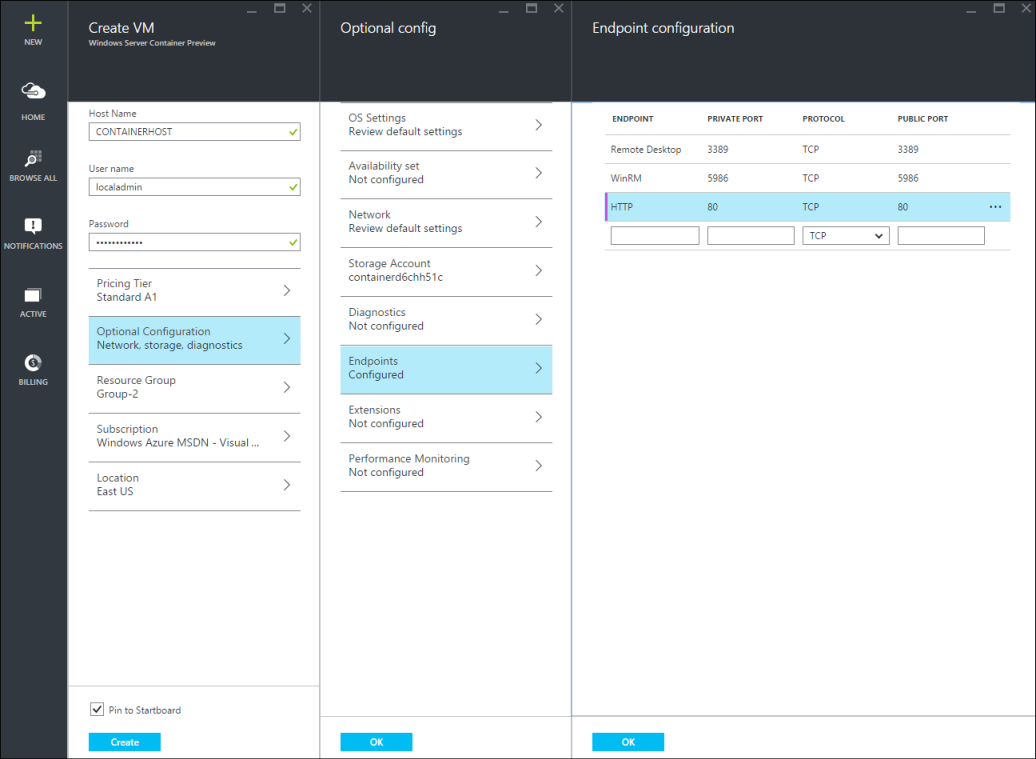
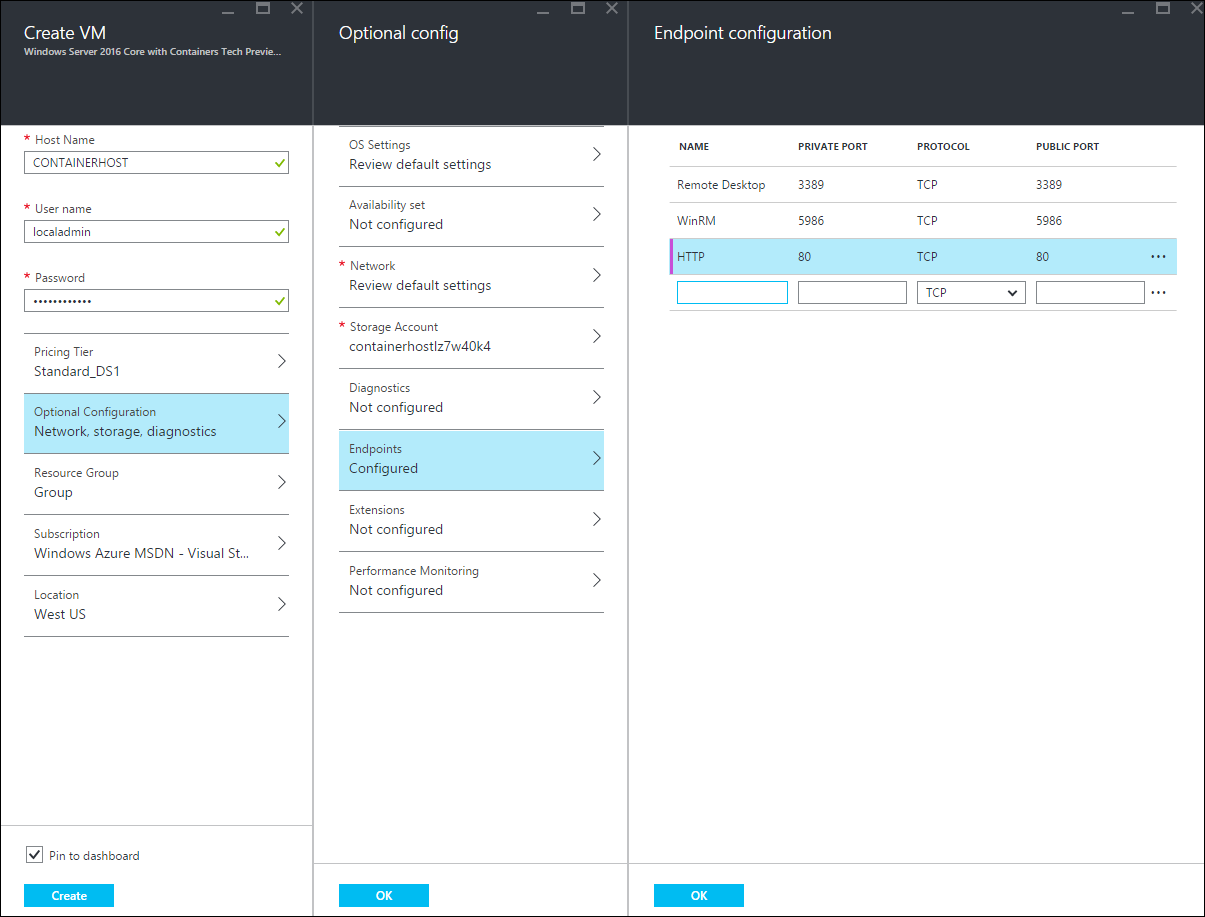
Azure Doc Update

diff --git a/virtualization/windowscontainers/quick_start/azure_setup.md b/virtualization/windowscontainers/quick_start/azure_setup.md
@@ -2,6 +2,8 @@
 
 Before creating and managing Windows Server Containers in Azure you will need to deploy a Windows Server 2016 Technical Preview image which has been pre-configured with the Windows Server Containers feature. This guide will walk you through this process.
 
+> Microsoft Azure does not support Hyper-V containers. To complete Hyper-V Container exercises, you need an on-prem container host.
+
 ## Start Using Azure Portal
 If you have an Azure account, skip straight to [Create a Container Host VM](#CreateacontainerhostVM).
 
@@ -11,13 +13,13 @@ If you have an Azure account, skip straight to [Create a Container Host VM](#Cre
 
 ## Create a Container Host VM
 
-Click on the following link to start the VM creation process – [New Windows Server Container Host in Azure]( https://portal.azure.com/#gallery/Microsoft.WindowsServer2016TechnicalPreviewwithContainers). 
-
-You can also search for the image in the Azure gallery.
-
-Click on the `create` button.
+Search in the Azure Market Place for ‘containers’, this will return ‘Windows Server 2016 Core with Containers Tech Preview 4’
 
 ![](./media/newazure1.png)
+
+Select the image, and click `create`.
+
+![](./media/tp41.png)
 
 Give the Virtual Machine a name, select a user name and a password.
 

diff --git a/virtualization/windowscontainers/quick_start/manage_powershell.md b/virtualization/windowscontainers/quick_start/manage_powershell.md
@@ -226,7 +226,7 @@ PS C:\> Remove-ContainerImage -Name WindowsServerCoreIIS -Force
 
 Hyper-V Containers provide an additional layer of isolation over Windows Server Containers. Each Hyper-V Container is created within a highly optimized virtual machine. Where a Windows Server Container shares a kernel with the Container host, and all other Windows Server Containers running on that host, a Hyper-V container is completely isolated from other containers. Hyper-V Containers are created and managed identically to Windows Server Containers. For more information about Hyper-V Containers see [Managing Hyper-V Containers](../management/hyperv_container.md).
 
-> Microsoft Azure does not support Hyper-V containers. To complete the Hyper-V exercises, you need an on-prem container host.
+> Microsoft Azure does not support Hyper-V containers. To complete the Hyper-V Container exercises, you need an on-prem container host.
 
 ### Create Container <!--2-->
 

diff --git a/virtualization/windowscontainers/quick_start/manage_docker.md b/virtualization/windowscontainers/quick_start/manage_docker.md
@@ -15,7 +15,7 @@ The following items will be required for each exercise.
 - A Windows Container host enabled with Nested Virtualization.
 - The Windows Server 2016 Media - [Download](https://aka.ms/tp4/serveriso).
 
-> Microsoft Azure does not support Hyper-V containers. To complete the Hyper-V exercises, you need an on-prem container host.
+> Microsoft Azure does not support Hyper-V containers. To complete the Hyper-V Container exercises, you need an on-prem container host.
 
 ## Windows Server Container
 
